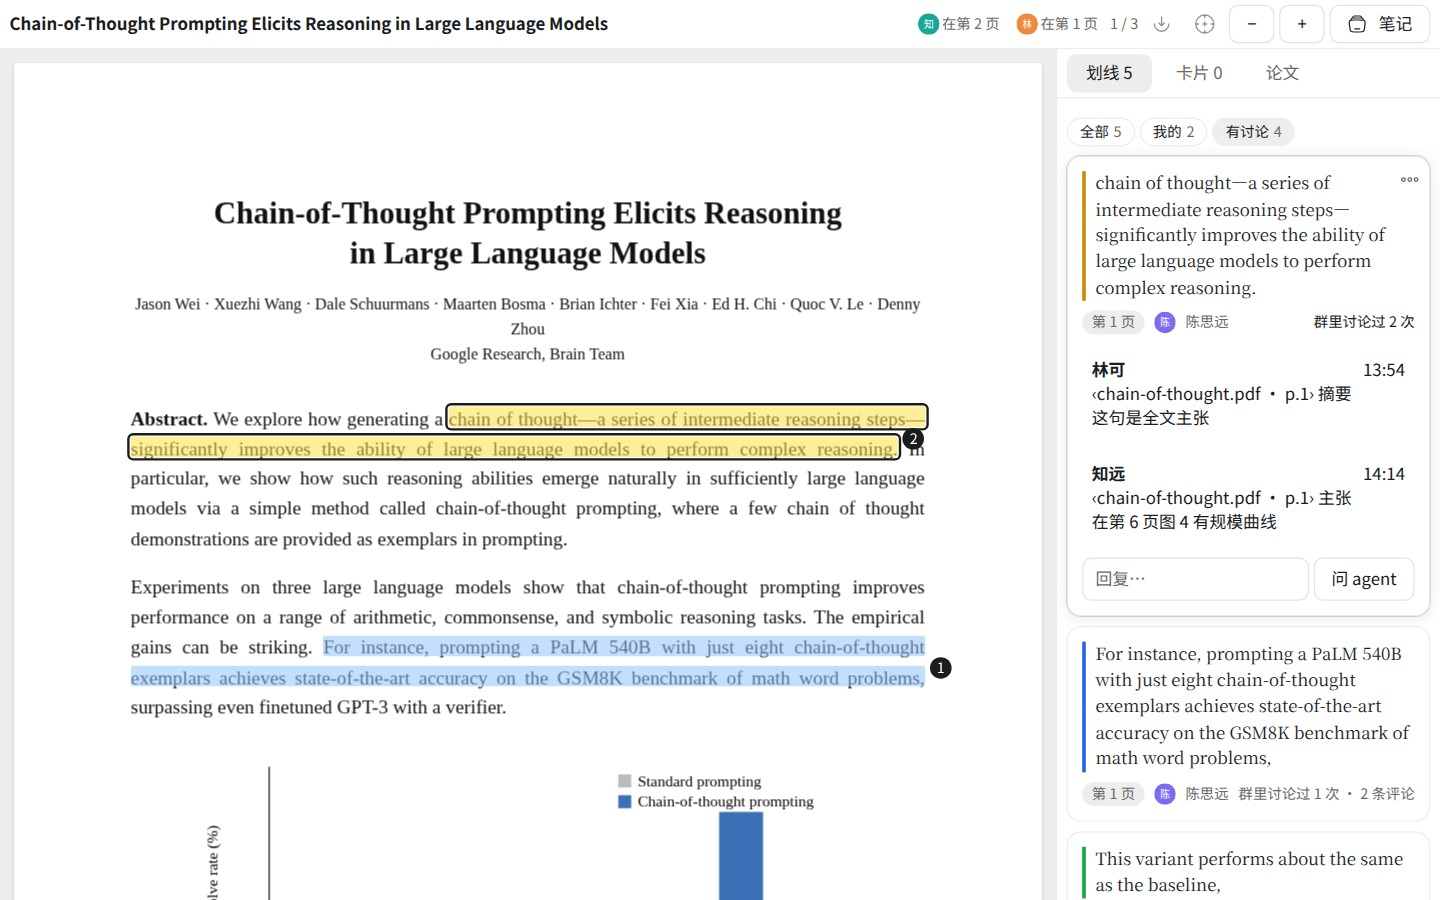
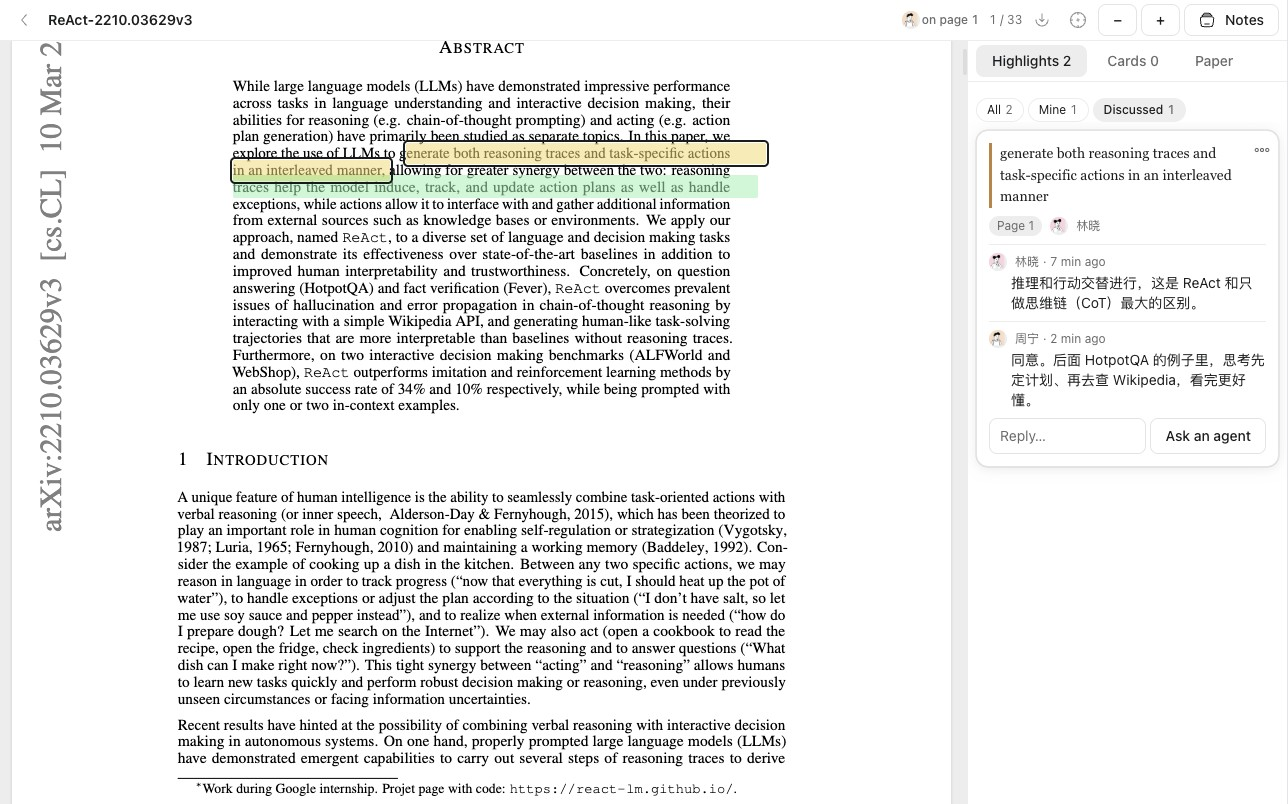
Refresh Paper Club market images from native captures

diff --git a/sources/paper-club/app/store/SOURCE.md b/sources/paper-club/app/store/SOURCE.md
@@ -1,9 +1,21 @@
 # Market media sources
 
-`1.jpg`–`3.jpg` show the Paper Club 0.3.8 reader (`reader.html`, the source merged in #165) rendered in Chromium with gugu's own App stylesheet and elements (`ui.css` / `ui.js` of the gugu 0.2.58 App runtime), light theme, 1200 × 750 CSS pixels at 1.2× (1440 × 900). The interface was not redrawn. The App ran against a stand-in host holding example data: a three-page excerpt typeset from the abstract, introduction and ablation of "Chain-of-Thought Prompting Elicits Reasoning in Large Language Models" (Wei et al., 2022; the figure's bars illustrate its reported trend), five highlights, three comments and four chat messages written for the example by two people and one agent. No model output is claimed.
+The product images were captured in the Gugu desktop client on macOS on November 4, 2026 (UTC), with Paper Club 0.5.0 installed through the normal market UI. The host was built from `GUYI-AI/gugu@9b07c9a232f78d963193dd2cfe1ce4d3326b734a`; the App source was `GUYI-AI/gugu-apps@7c480639bb64f7a66c31d185a56df2ebbf0623ce`.
 
-1. A highlight selected: its thread with a member's and an agent's comment, a one-line reply beside "Ask an agent".
-2. A sentence selected in the PDF text layer: highlight colours, comment, ask an agent.
-3. The Discussed filter, with the chat messages citing a passage unfolded.
+The original windows were 1600 × 1000 device pixels. The images were cropped from those native PNGs, without upscaling, control redraws or edited conversations. The two people created their highlights and comments in the product. There is no agent reply in these pictures; the “Ask an agent” control is shown as an available action only.
 
-`promo.png` is `scripts/promo/paper-club.html` rendered at 1600 × 900, device scale 1, with `1.jpg` as its product image. `icon.png` is unchanged.
+| File | Native picture and crop in device pixels (x, y, width, height) | What it shows |
+| --- | --- | --- |
+| `1.jpg` | `pc-thread.png`, (308, 45, 1288, 804) | A selected highlight and the two people's expanded comment thread |
+| `2.jpg` | `pc-select-toolbar.png`, (308, 45, 1288, 804) | A real PDF text selection with colour, Comment, Ask an agent and Copy controls |
+| `3.jpg` | `pc-filter-discussed.png`, (308, 45, 1288, 804) | The Discussed filter and the highlight's thread |
+
+The JPEG gallery exports use quality 90; the native PNGs and cropped PNG masters are retained separately. The crop omits the desktop navigation and the capture label; it does not replace or paint over interface content.
+
+`0-promo.png` uses the existing `scripts/promo/paper-club.html` frame, icon, colours and wording at 1600 × 900, device scale 1, with `1.jpg` as its product image. This promotional composition is separate from the native window capture. The export used Electron 44.0.0 / Chromium 152.0.7977.54 on macOS 26.5.1. The rendered heading, tagline and footer used PingFang SC (the existing fallback); no new fonts were installed.
+
+## Paper attribution
+
+The PDF is **ReAct: Synergizing Reasoning and Acting in Language Models**, by Shunyu Yao, Jeffrey Zhao, Dian Yu, Nan Du, Izhak Shafran, Karthik Narasimhan and Yuan Cao, [arXiv:2210.03629v3](https://arxiv.org/abs/2210.03629v3), licensed under [CC BY 4.0](https://creativecommons.org/licenses/by/4.0/). The screenshots show cropped passages with product highlights and discussion annotations; the paper's text was not rewritten. The authors do not endorse this App.
+
+These native images replace the earlier browser-rendered example-host images. The artwork-only release does not change the reader's runtime behaviour.

diff --git a/scripts/promo/README.md b/scripts/promo/README.md
@@ -2,7 +2,7 @@
 
 Each HTML file is a reusable 1600 × 900 (16:9) canvas: App icon and name, one concise benefit, and an existing real screenshot. The dark brand canvas stays fixed in both client themes. Text uses Noto Sans CJK SC with PingFang SC as the macOS fallback.
 
-Open a template in a headless Chromium browser with a 1600 × 900 viewport. Wait for `document.fonts.ready`, decode every image, and wait two animation frames; capture only `.promo` at device scale 1. Save to the App's `store/screenshots/0-promo.png` (file-name order puts it first: the market's featured artwork); verify 1600 × 900 and at most 1 MiB. Keep the same browser and fonts for a batch. The current exports use Chromium 155.
+Open a template in a headless Chromium browser with a 1600 × 900 viewport. Wait for `document.fonts.ready`, decode every image, and wait two animation frames; capture only `.promo` at device scale 1. Save to the App's `store/screenshots/0-promo.png` (file-name order puts it first: the market's featured artwork); verify 1600 × 900 and at most 1 MiB. Keep the same browser and fonts for a batch. The initial exports used Chromium 155. The Paper Club native-image refresh uses Electron 44.0.0 / Chromium 152.0.7977.54 on macOS 26.5.1, with the existing PingFang SC font fallback. Other exports retain their recorded renderer.
 
 To add an App, copy a template and replace the icon, name, benefit, screenshot path and brand color variables. Keep the product screenshot real. Do not redraw controls, invent features or stretch the screenshot. Keep every original screenshot beside it in `store/screenshots/`. A new package version and normal index PR are required.
 
@@ -20,6 +20,6 @@ All product images below already existed in the corresponding App before this ar
[7 lines of base64/hex data omitted]

diff --git a/sources/paper-club/app/store/whats-new.md b/sources/paper-club/app/store/whats-new.md
@@ -1,1 +1,1 @@
-任务页的书架按文件夹逐层浏览工作区里的 PDF；项目里的论文从顶层和「论文」文件夹读取。需要支持 App 接口 25 的咕咕。
+The market cover and reader screenshots now show highlights and discussion captured in the desktop client. App behaviour is unchanged.
